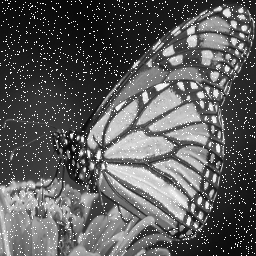
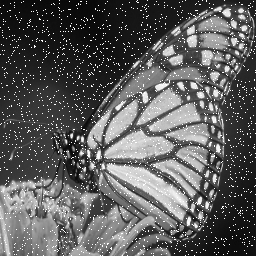
Added final part to HW2, fixed other parts

diff --git a/Homeworks/homework2_programming/p3_nlm_filtering.py b/Homeworks/homework2_programming/p3_nlm_filtering.py
@@ -19,21 +19,57 @@ def nlm_filtering(
     """
 
     img = img / 255
-    img = img.astype("float32")
-    img_filtered = np.zeros(img.shape) # Placeholder of the filtered image
-    
-    # Todo: For each pixel position [i, j], you need to compute the filtered output: img_filtered[i, j] using a non-local means filter
-    # step 1: compute window_sizexwindow_size filter weights of the non-local means filter in terms of intensity_variance. 
-    # step 2: compute the filtered pixel img_filtered[i, j] using the obtained kernel weights and the pixel values in the search window
-    # Please see slides 30 and 31 of lecture 6. Clarification: the patch_size refers to the size of small image patches (image content in yellow, 
-    # red, and blue boxes in the slide 30); intensity_variance denotes sigma^2 in slide 30; the window_size is the size of the search window as illustrated in slide 31.
-    # Tip: use zero-padding to address the black border issue. 
+    img = img.astype("float32")  # input image
+    img_filtered = np.zeros(img.shape)  # Placeholder of the filtered image
 
-    # ********************************
-    # Your code is here.
-    # ********************************
+    sizeX, sizeY = img.shape
+    patch_radius = patch_size // 2
+    window_radius = window_size // 2
 
-            
+    # zero-padding for boundary handling
+    pad_size = window_radius + patch_radius
+    padded = np.pad(img, pad_size, mode="reflect")
+
+    # filtering for each pixel
+    for i in range(sizeX):
+        for j in range(sizeY):
+            # reference patch centered at (i, j)
+            ref_patch = padded[
+                i + pad_size - patch_radius : i + pad_size + patch_radius + 1,
+                j + pad_size - patch_radius : j + pad_size + patch_radius + 1,
+            ]
+
+            weights = []
+            neighbors = []
+
+            # iterate over search window
+            for wi in range(-window_radius, window_radius + 1):
+                for wj in range(-window_radius, window_radius + 1):
+                    ni = i + wi
+                    nj = j + wj
+
+                    # neighbor patch
+                    neigh_patch = padded[
+                        ni + pad_size - patch_radius : ni + pad_size + patch_radius + 1,
+                        nj + pad_size - patch_radius : nj + pad_size + patch_radius + 1,
+                    ]
+
+                    # squared distance between patches
+                    dist2 = np.sum((ref_patch - neigh_patch) ** 2)
+
+                    # compute weight
+                    w = np.exp(-dist2 / intensity_variance)
+                    weights.append(w)
+                    neighbors.append(padded[ni + pad_size, nj + pad_size])
+
+            # normalize weights
+            weights = np.array(weights)
+            neighbors = np.array(neighbors)
+            weights /= np.sum(weights)
+
+            # compute filtered pixel
+            img_filtered[i, j] = np.sum(weights * neighbors)
+
     img_filtered = img_filtered * 255
     img_filtered = np.uint8(img_filtered)
     return img_filtered

diff --git a/Homeworks/homework2_programming/p2_bilateral_filtering.py b/Homeworks/homework2_programming/p2_bilateral_filtering.py
@@ -19,23 +19,30 @@ def bilateral_filtering(
     """
 
     img = img / 255.0
-    img = img.astype("float32")
-    img_filtered = np.zeros_like(img)
-    xsize, ysize = img.shape
+    img = img.astype("float32")  # input image
+    img_filtered = np.zeros(img.shape)  # placeholder of filtered image
+    sizeX, sizeY = img.shape
 
-    padding = kernel_size // 2
-    img_padded = np.pad(img, ((padding, padding), (padding, padding)), mode="reflect")
+    pad_size = kernel_size // 2
+    img_padded = np.pad(img, ((pad_size, pad_size), (pad_size, pad_size)), mode="reflect")
 
-    for i in range(xsize):
-        for j in range(ysize):
+    # filtering for each pixel
+    for i in range(sizeX):
+        for j in range(sizeY):
             Wp = 0.0
-            filtered_pixel = 0.0
+            filtered_val = 0.0
 
-            center_val = img_padded[i + padding, j + padding]
+            center_val = img_padded[i + pad_size, j + pad_size]
 
-            for k in range(-padding, padding + 1):
-                for l in range(-padding, padding + 1):
-                    neighbor_val = img_padded[i + k + padding, j + l + padding]
+            # local window around (i, j)
+            local_window = img_padded[
+                i : i + kernel_size,
+                j : j + kernel_size
+            ]
+
+            for k in range(-pad_size, pad_size + 1):
+                for l in range(-pad_size, pad_size + 1):
+                    neighbor_val = img_padded[i + k + pad_size, j + l + pad_size]
 
                     # Spatial Gaussian
                     spatial_weight = np.exp(-(k**2 + l**2) / (2 * spatial_variance))
@@ -45,9 +52,9 @@ def bilateral_filtering(
 
                     weight = spatial_weight * intensity_weight
                     Wp += weight
-                    filtered_pixel += weight * neighbor_val
+                    filtered_val += weight * neighbor_val
 
-            img_filtered[i, j] = filtered_pixel / Wp
+            img_filtered[i, j] = filtered_val / Wp
 
     img_filtered = (img_filtered * 255).astype(np.uint8)
     return img_filtered
